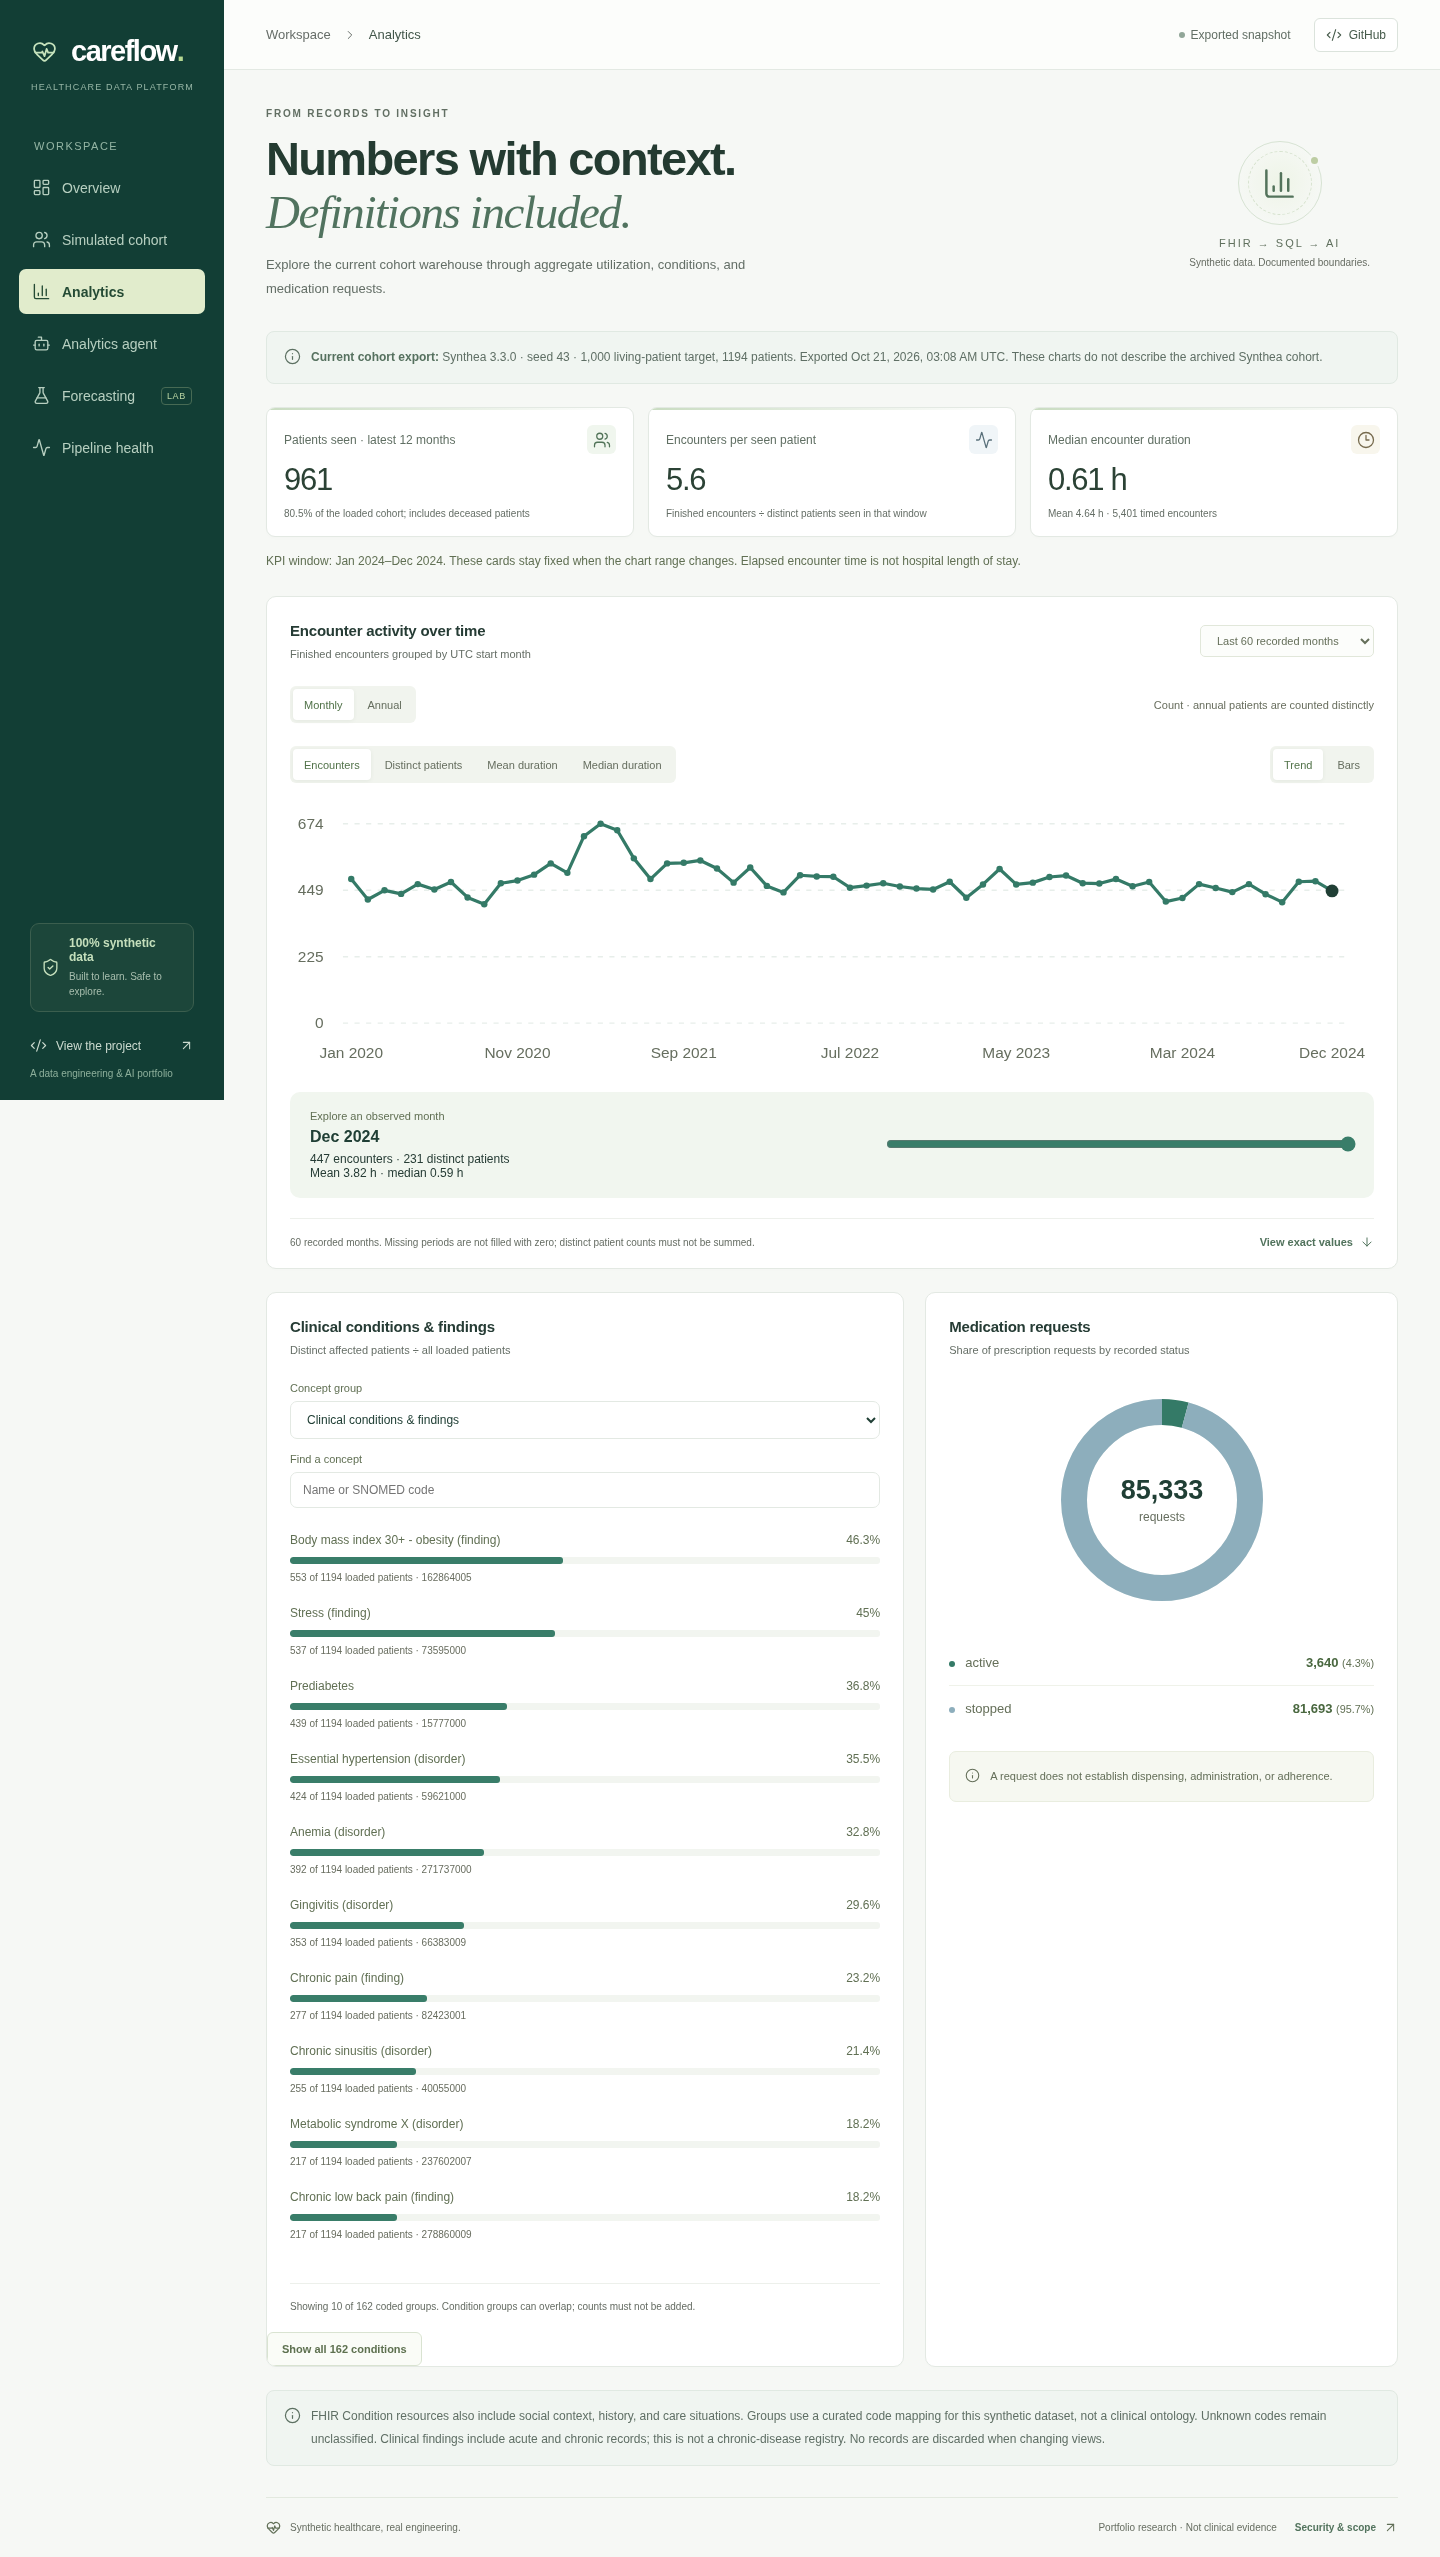
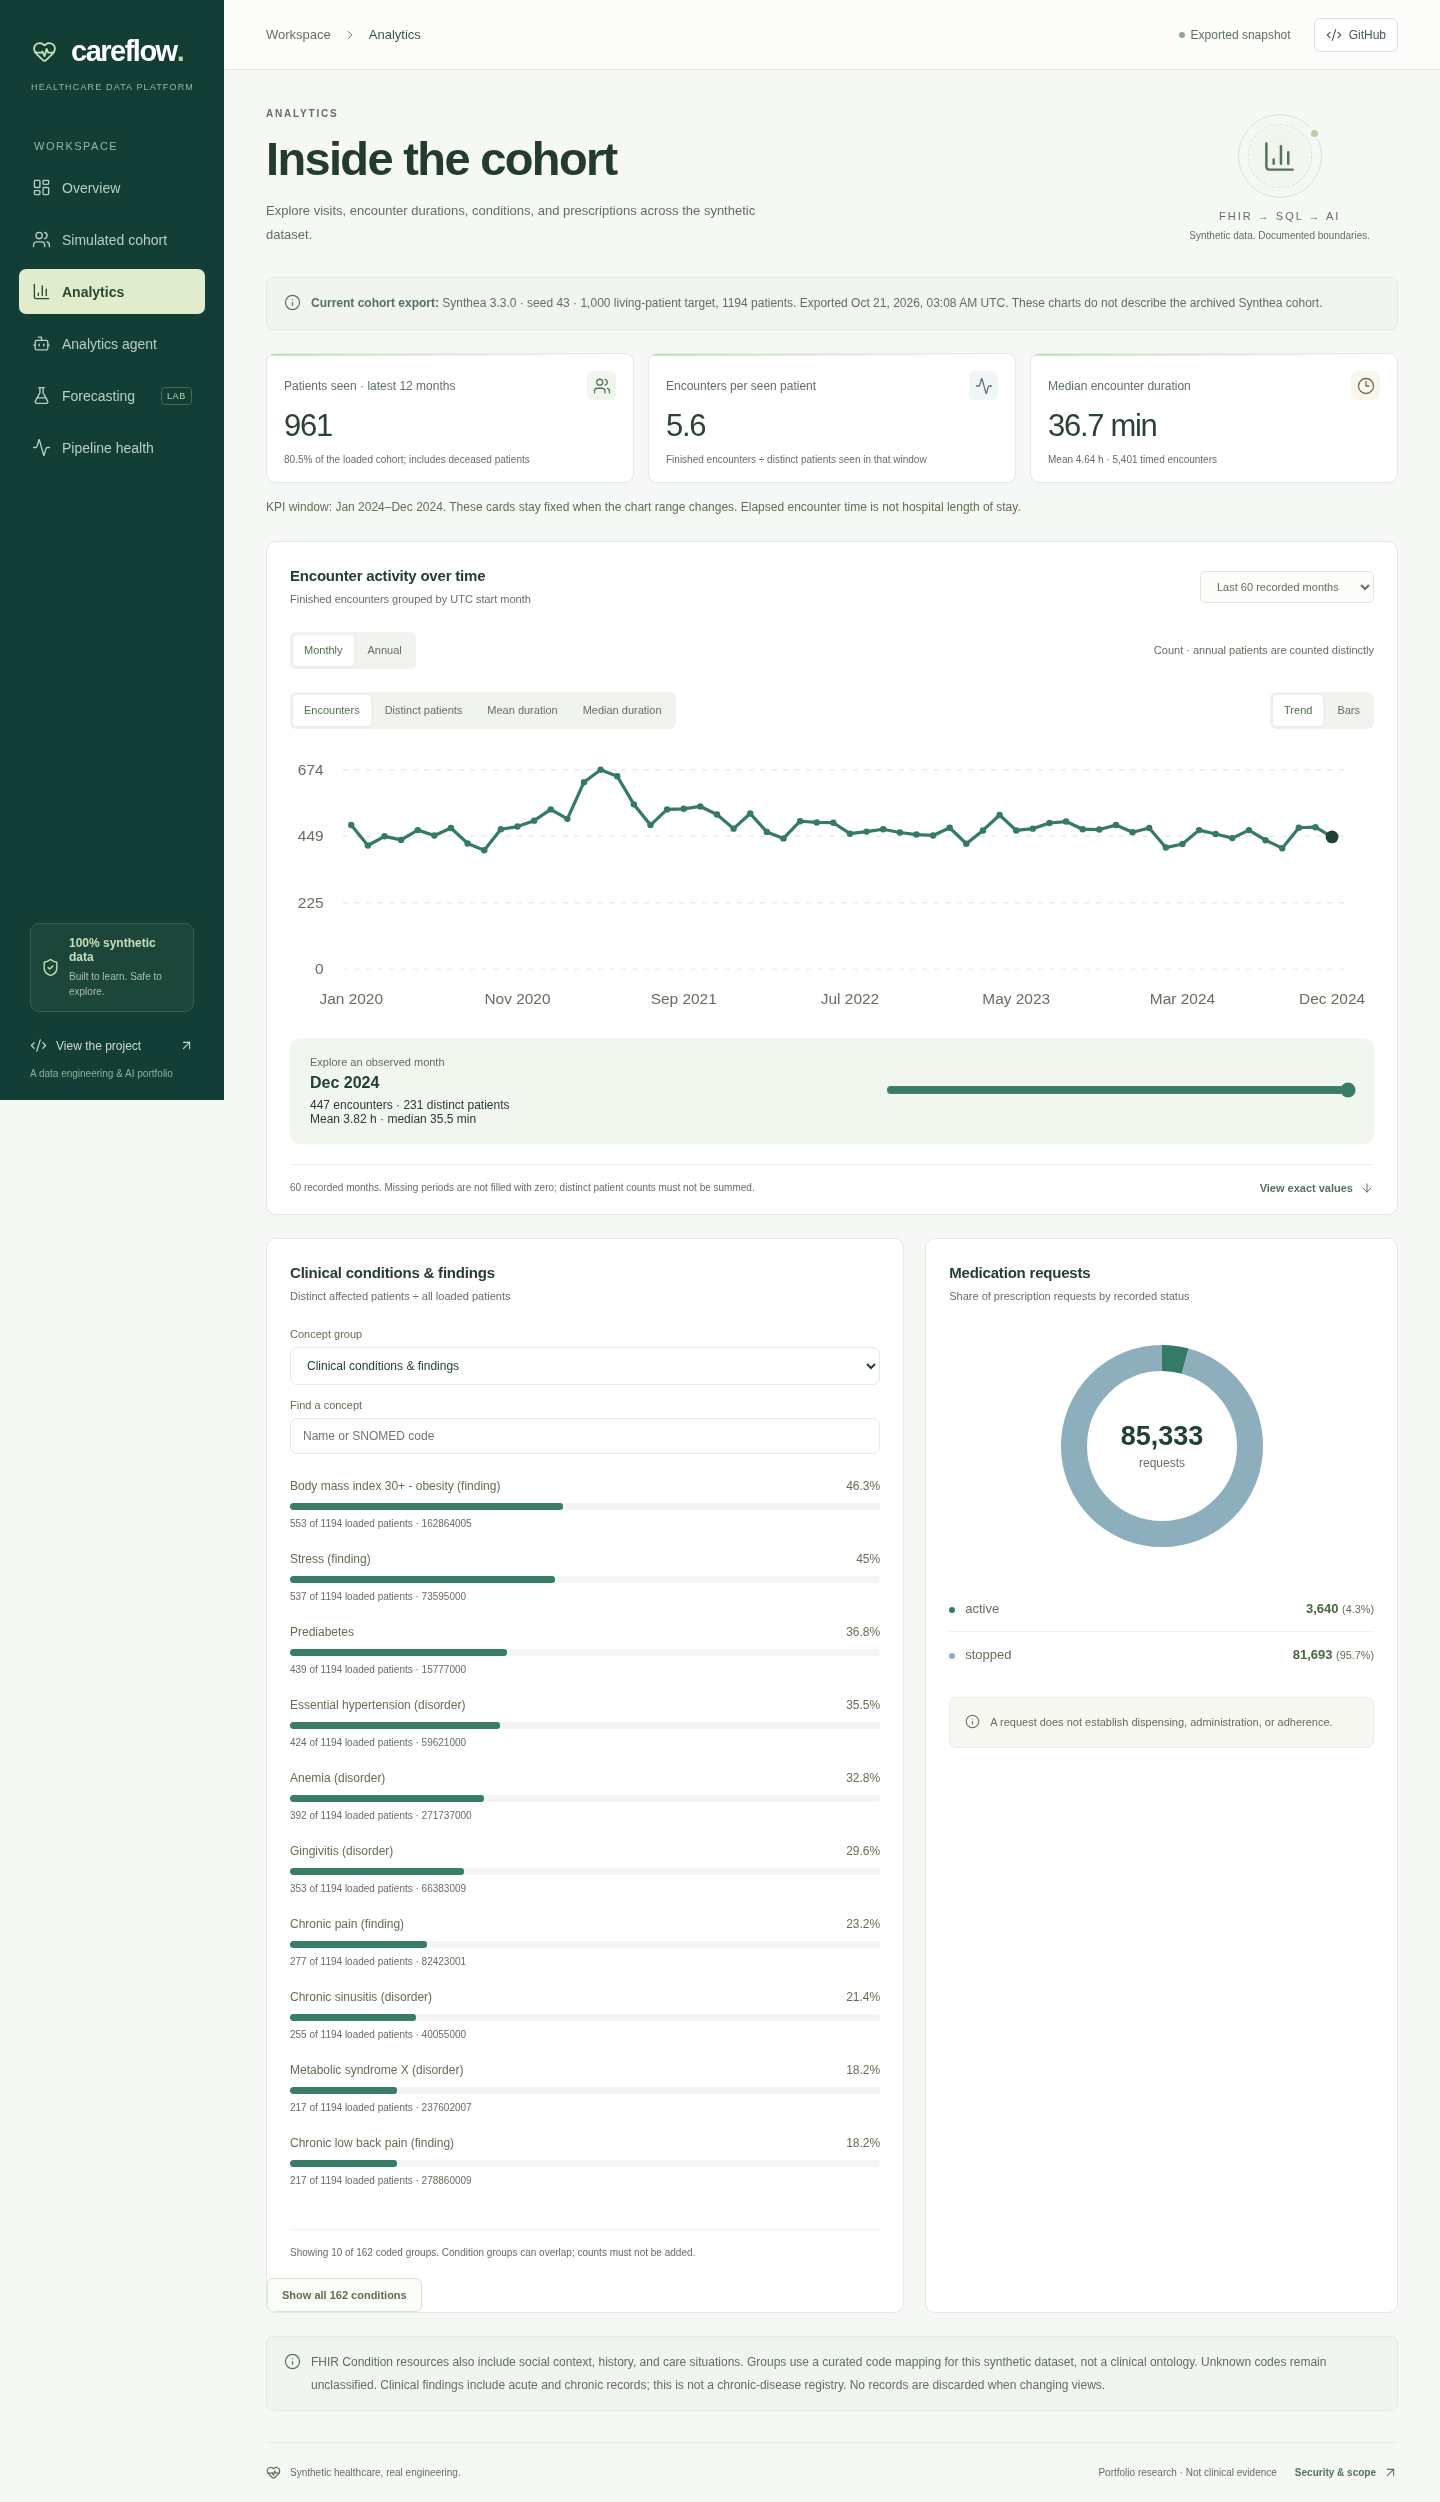
Use Inside the cohort heading and display median duration in minutes

diff --git a/src/App.tsx b/src/App.tsx
@@ -66,6 +66,8 @@ const duration = (minutes: number | null) => {
   const days = minutes >= 1440;
   return `${new Intl.NumberFormat("en-US", { maximumFractionDigits: 2 }).format(minutes / (days ? 1440 : 60))} ${days ? "days" : "h"}`;
 };
+const medianDuration = (minutes: number | null) =>
+  minutes === null ? "Unavailable" : `${number(minutes)} min`;
 
 const nav = [
   {
@@ -92,11 +94,11 @@ const nav = [
     id: "analytics",
     label: "Analytics",
     icon: BarChart3,
-    eyebrow: "FROM RECORDS TO INSIGHT",
-    title: "Numbers with context.",
-    accent: "Definitions included.",
+    eyebrow: "ANALYTICS",
+    title: "Inside the cohort",
+    accent: "",
     description:
-      "Explore the current cohort warehouse through aggregate utilization, conditions, and medication requests.",
+      "Explore visits, encounter durations, conditions, and prescriptions across the synthetic dataset.",
   },
   {
     id: "agent",
@@ -726,16 +728,24 @@ function Analytics() {
   const xAt = (date: string) =>
     left + ((monthIndex(date) - firstMonth + step / 2) * 775) / span;
   const isDuration = measure.endsWith("duration_minutes");
-  const durationDivisor = isDuration && max >= 2880 ? 1440 : 60;
-  const durationUnit = durationDivisor === 1440 ? "days" : "h";
+  const durationDivisor =
+    measure === "median_duration_minutes"
+      ? 1
+      : isDuration && max >= 2880
+        ? 1440
+        : 60;
+  const durationUnit =
+    durationDivisor === 1 ? "min" : durationDivisor === 1440 ? "days" : "h";
   const axisValue = (value: number) =>
     isDuration ? number(value / durationDivisor) : number(Math.round(value));
   const measureValue = (value: number | null) =>
     value === null
       ? "Unavailable"
-      : isDuration
-        ? duration(value)
-        : number(value);
+      : measure === "median_duration_minutes"
+        ? medianDuration(value)
+        : isDuration
+          ? duration(value)
+          : number(value);
   const barWidth = Math.min(60, (720 / (span / step)) * 0.65);
   const latest = rows[rows.length - 1];
   const selected =
@@ -811,7 +821,7 @@ function Analytics() {
           value={
             summary?.median_duration_minutes == null
               ? "—"
-              : duration(summary.median_duration_minutes)
+              : `${number(summary.median_duration_minutes)} min`
           }
           note={
             summary
@@ -1036,7 +1046,7 @@ function Analytics() {
               </p>
               <p>
                 Mean {duration(selected.average_duration_minutes)} · median{" "}
-                {duration(selected.median_duration_minutes)}
+                {medianDuration(selected.median_duration_minutes)}
               </p>
             </div>
             <label>
@@ -1098,7 +1108,7 @@ function Analytics() {
                     <td>{number(row.encounter_count)}</td>
                     <td>{number(row.unique_patients)}</td>
                     <td>{duration(row.average_duration_minutes)}</td>
-                    <td>{duration(row.median_duration_minutes)}</td>
+                    <td>{medianDuration(row.median_duration_minutes)}</td>
                     <td>{number(row.measured_duration_count)}</td>
                   </tr>
                 ))}
@@ -2117,8 +2127,12 @@ export default function App() {
               <span className="eyebrow">{selected.eyebrow}</span>
               <h1 ref={titleRef} tabIndex={-1}>
                 {selected.title}
-                <br />
-                <span>{selected.accent}</span>
+                {selected.accent && (
+                  <>
+                    <br />
+                    <span>{selected.accent}</span>
+                  </>
+                )}
               </h1>
               <p>{selected.description}</p>
             </div>

diff --git a/tests/dashboard.spec.ts b/tests/dashboard.spec.ts
@@ -252,7 +252,7 @@ test("KPIs use distinct patients and median duration while annual trends retain 
     .locator(".analytics-summary .metric")
     .filter({ hasText: "Median encounter duration" });
   await expect(median.locator("strong")).toContainText(
-    `${new Intl.NumberFormat("en-US", { maximumFractionDigits: 2 }).format(summary.median_duration_minutes! / (summary.median_duration_minutes! >= 1440 ? 1440 : 60))} ${summary.median_duration_minutes! >= 1440 ? "days" : "h"}`,
+    `${new Intl.NumberFormat("en-US", { maximumFractionDigits: 1 }).format(summary.median_duration_minutes!)} min`,
   );
   await page.getByRole("button", { name: "Annual", exact: true }).click();
   await page.getByRole("button", { name: "View exact values" }).click();
@@ -269,7 +269,7 @@ test("KPIs use distinct patients and median duration while annual trends retain 
   await page
     .getByRole("button", { name: "Median duration", exact: true })
     .click();
-  await expect(page.getByText(/Duration axis:/)).toContainText(/h|days/);
+  await expect(page.getByText(/Duration axis:/)).toContainText("min");
   await page.getByLabel("Condition view").selectOption("chronic");
   await expect(page.locator("main")).toContainText("distinct union, not a sum");
 });
